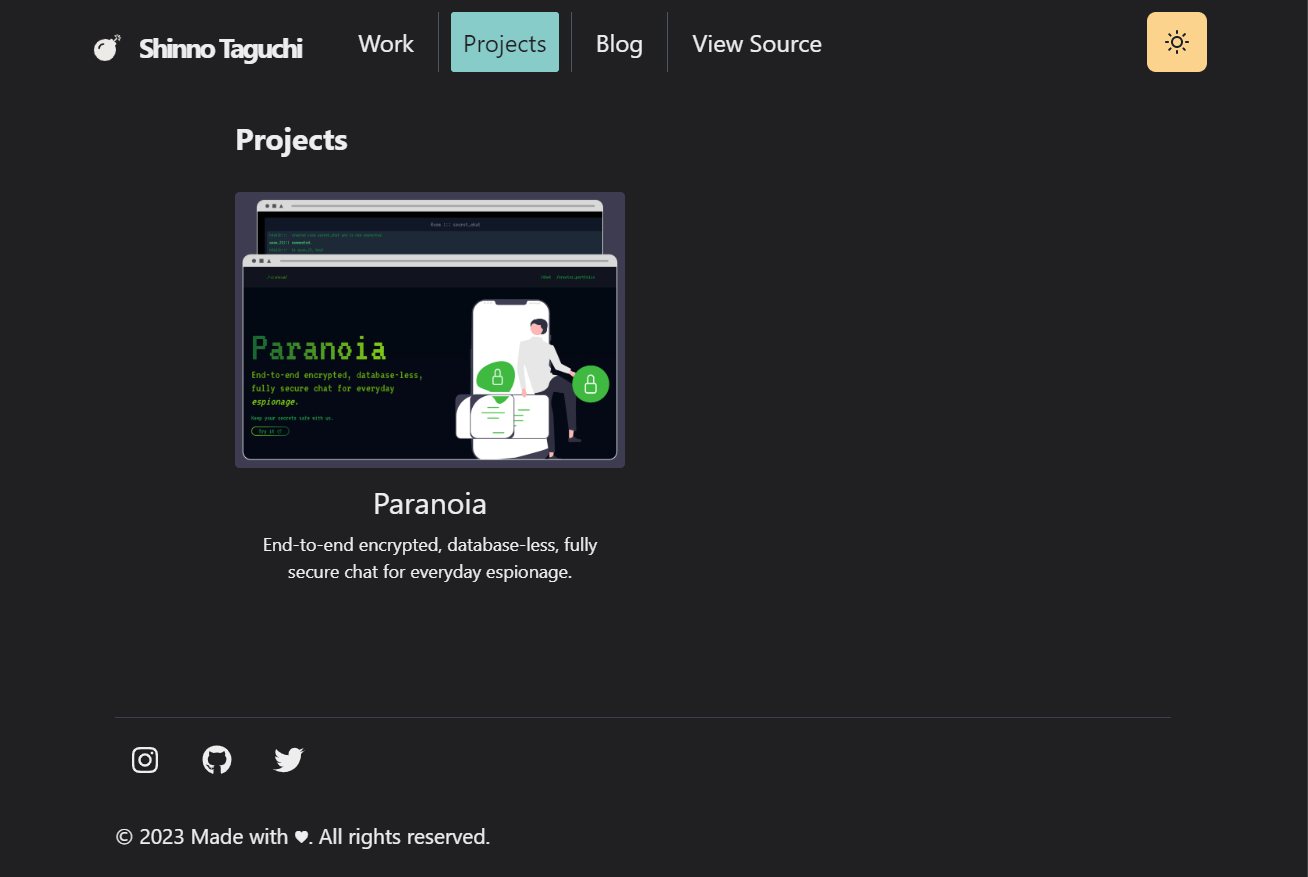
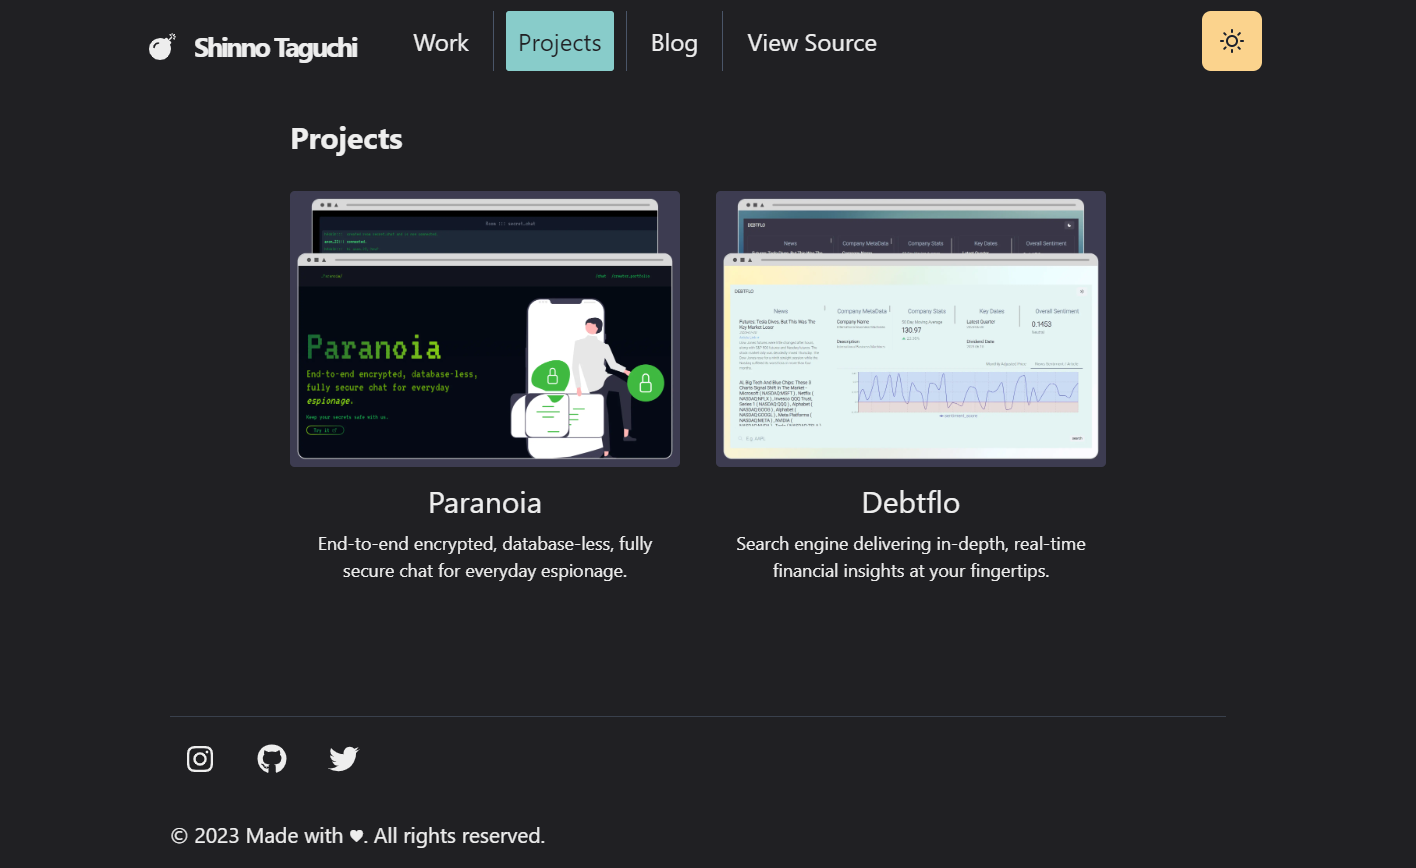
debtflo included in projects page + og:url updated to production url

diff --git a/pages/projects/debtflo.js b/pages/projects/debtflo.js
@@ -1,0 +1,98 @@
+import Head from "next/head";
+import { Container, Badge, Link, List, ListItem } from "@chakra-ui/react";
+import { ExternalLinkIcon } from "@chakra-ui/icons";
+import { Title, WorkImage, Meta } from "../../components/work";
+import P from "../../components/paragraph";
+import Layout from "../../components/layouts/article";
+
+const Project = () => {
+    return (
+        <Layout title="Debtflo">
+            <Head>
+                <title>Shinno&apos;s Portfolio Page | Projects - Debtflo</title>
+                <meta
+                    name="description"
+                    content="A showcase of @vagabadu's personal project Debtflo - delivers in-depth, real-time financial insights on any stock ticker at your fingertips."
+                />
+                <meta
+                    property="og:url"
+                    content="https://vagabadu-portfolio.netlify.app/projects/debtflo"
+                />
+                <meta property="og:type" content="website" />
+                <meta
+                    property="og:title"
+                    content="Shinno's Portfolio Page | Projects - Debtflo"
+                />
+                <meta name="twitter:card" content="summary_large_image" />
+                <meta
+                    property="og:description"
+                    content="A showcase of @vagabadu's personal project Debtflo - delivers in-depth, real-time financial insights on any stock ticker at your fingertips."
+                />
+                <meta
+                    property="og:image"
+                    content={"/images/projects-debtflo-screenshot-dark.png"}
+                />
+            </Head>
+            <Container>
+                <Title navLink="projects">
+                    Debtflo <Badge>2023</Badge>
+                </Title>
+                <WorkImage
+                    src="/images/projects/Debtflo-card.png"
+                    alt="Debtflo"
+                />
+                <P>
+                    Debtflo is a pioneering personal project, embodying the
+                    perfect intersection of finance and technology. Created to
+                    provide a platform that bridges the information gap for
+                    investors, it provides comprehensive financial information,
+                    elegantly presented in a beautifully designed, user-friendly
+                    dashboard.
+                </P>
+                <P>
+                    The core objective of Debtflo is to democratize financial
+                    data, making it more accessible and understandable for all
+                    users, irrespective of their investing experience. Users can
+                    search any stock ticker and instantly gain a plethora of
+                    financial insights about the respective company. From
+                    fundamental indicators such as earnings per share and P/E
+                    ratios, to more advanced metrics like debt ratios and return
+                    on equity, Debtflo is designed to cater to everyone from
+                    novice investors to experienced finance professionals.
+                </P>
+                <P>
+                    What sets Debtflo apart is not only the breadth and depth of
+                    financial information it offers, but also its visually
+                    stunning and intuitive interface. Complex financial data is
+                    transformed into clear, easy-to-understand visualizations,
+                    allowing users to quickly interpret and utilize the data for
+                    their investment decisions. The aim is to make the
+                    experience of diving into financial data less intimidating
+                    and more engaging.
+                </P>
+                <P>
+                    Debtflo is more than just a web app - it&apos;s a
+                    comprehensive financial companion designed to guide and
+                    inform your investment journey. Leveraging cutting-edge
+                    technology to unravel the complexities of the financial
+                    world, it provides a seamless, enriching experience for
+                    anyone interested in gaining a deeper understanding of their
+                    investments. The ultimate vision for Debtflo is to empower
+                    individual investors, enabling them to navigate the stock
+                    market with confidence and precision.
+                </P>
+                <List ml={4} my={4}>
+                    <ListItem>
+                        <Meta>Website</Meta>
+                        <Link href="#" target="_blank">
+                            coming soon...
+                            <ExternalLinkIcon mx="2px" />
+                        </Link>
+                    </ListItem>
+                </List>
+            </Container>
+        </Layout>
+    );
+};
+
+export default Project;

diff --git a/pages/projects.js b/pages/projects.js
@@ -5,6 +5,7 @@ import Section from "../components/section";
 import { WorkGridItem } from "../components/grid-item";
 
 import thumbParanoia from "../public/images/projects/Paranoia-card.png";
+import thumbDebtflo from "../public/images/projects/Debtflo-card.png";
 
 const Projects = () => {
     return (
@@ -15,7 +16,10 @@ const Projects = () => {
                     name="description"
                     content="A gallery of @vagabadu's personal projects."
                 />
-                <meta property="og:url" content="https://shinno.io/projects" />
+                <meta
+                    property="og:url"
+                    content="https://vagabadu-portfolio.netlify.app/projects"
+                />
                 <meta property="og:type" content="website" />
                 <meta
                     property="og:title"
@@ -45,6 +49,17 @@ const Projects = () => {
                         >
                             End-to-end encrypted, database-less, fully secure
                             chat for everyday espionage.
+                        </WorkGridItem>
+                    </Section>
+                    <Section>
+                        <WorkGridItem
+                            id="debtflo"
+                            title="Debtflo"
+                            href="/projects/debtflo"
+                            thumbnail={thumbDebtflo}
+                        >
+                            Search engine delivering in-depth, real-time
+                            financial insights at your fingertips.
                         </WorkGridItem>
                     </Section>
                 </SimpleGrid>

diff --git a/pages/index.js b/pages/index.js
@@ -18,7 +18,10 @@ const Page = () => {
                     name="description"
                     content="Welcome to @vagabadu's portfolio website - come explore my work."
                 />
-                <meta property="og:url" content="https://shinno.io" />
+                <meta
+                    property="og:url"
+                    content="https://vagabadu-portfolio.netlify.app"
+                />
                 <meta property="og:type" content="website" />
                 <meta property="og:title" content="Shinno's Portfolio Page" />
                 <meta name="twitter:card" content="summary_large_image" />

diff --git a/pages/work.js b/pages/work.js
@@ -17,7 +17,10 @@ const Work = () => {
                     name="description"
                     content="A gallery of @vagabadu's work experience."
                 />
-                <meta property="og:url" content="https://shinno.io/work" />
+                <meta
+                    property="og:url"
+                    content="https://vagabadu-portfolio.netlify.app/work"
+                />
                 <meta property="og:type" content="website" />
                 <meta
                     property="og:title"

diff --git a/pages/projects/paranoia.js b/pages/projects/paranoia.js
@@ -18,7 +18,7 @@ const Project = () => {
                 />
                 <meta
                     property="og:url"
-                    content="https://shinno.io/projects/paranoia"
+                    content="https://vagabadu-portfolio.netlify.app/projects/paranoia"
                 />
                 <meta property="og:type" content="website" />
                 <meta

diff --git a/pages/work/bloomberg.js b/pages/work/bloomberg.js
@@ -18,7 +18,7 @@ const Work = () => {
                 />
                 <meta
                     property="og:url"
-                    content="https://shinno.io/work/bloomberg"
+                    content="https://vagabadu-portfolio.netlify.app/work/bloomberg"
                 />
                 <meta property="og:type" content="website" />
                 <meta

diff --git a/pages/work/r&r_syria.js b/pages/work/r&r_syria.js
@@ -19,7 +19,7 @@ const Work = () => {
                 />
                 <meta
                     property="og:url"
-                    content="https://shinno.io/work/r&r_syria"
+                    content="https://vagabadu-portfolio.netlify.app/work/r&r_syria"
                 />
                 <meta property="og:type" content="website" />
                 <meta

diff --git a/pages/work/ship&co.js b/pages/work/ship&co.js
@@ -16,7 +16,7 @@ const Work = () => {
                 />
                 <meta
                     property="og:url"
-                    content="https://shinno.io/work/ship&co"
+                    content="https://vagabadu-portfolio.netlify.app/work/ship&co"
                 />
                 <meta property="og:type" content="website" />
                 <meta
